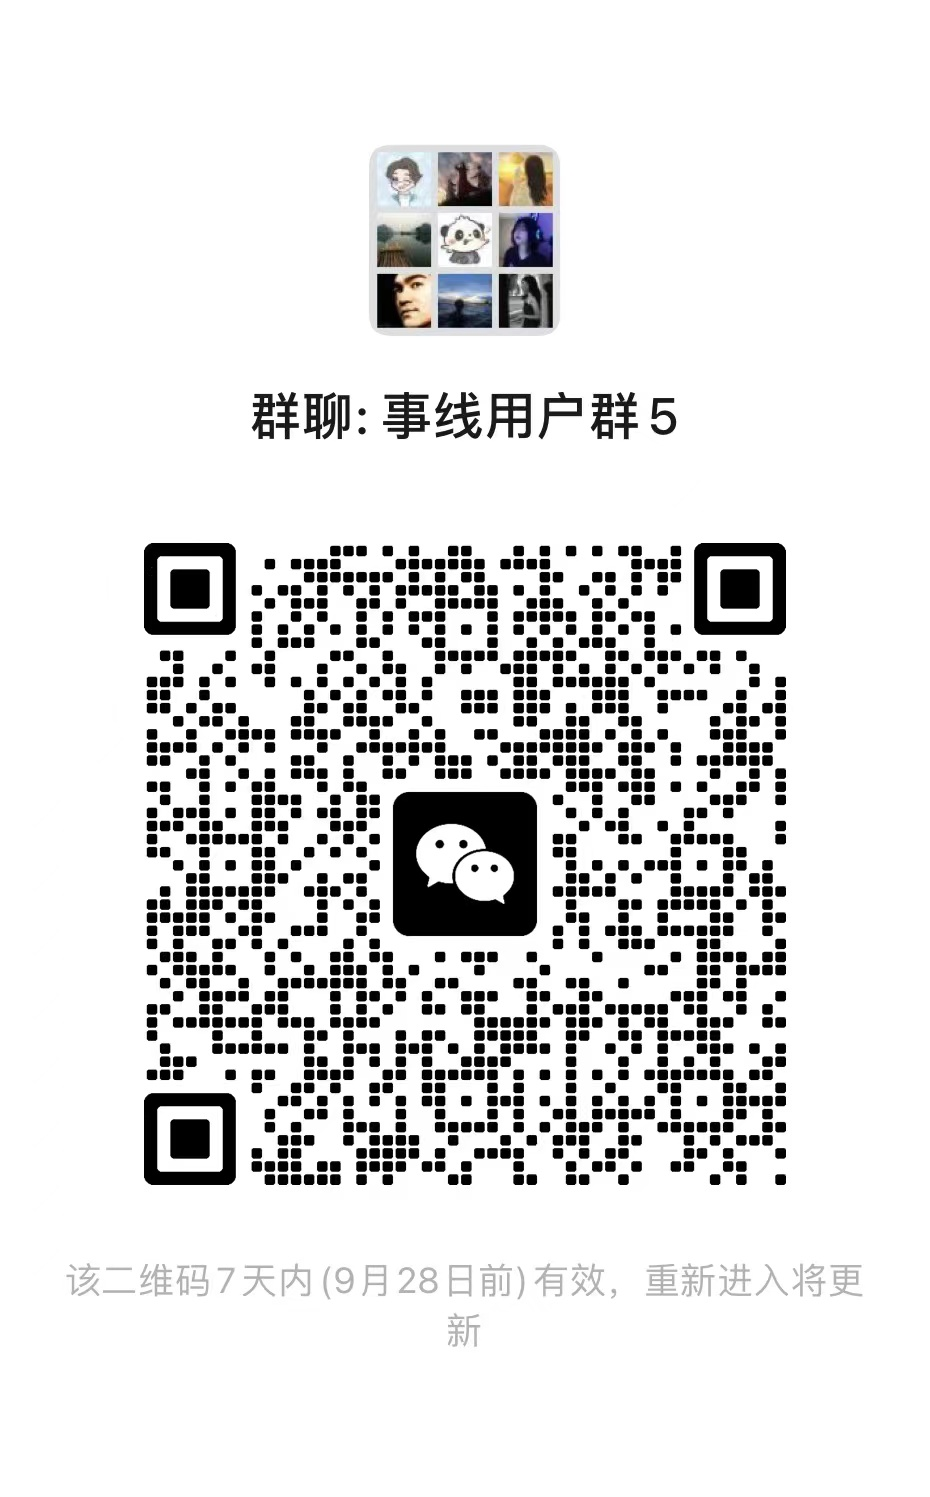
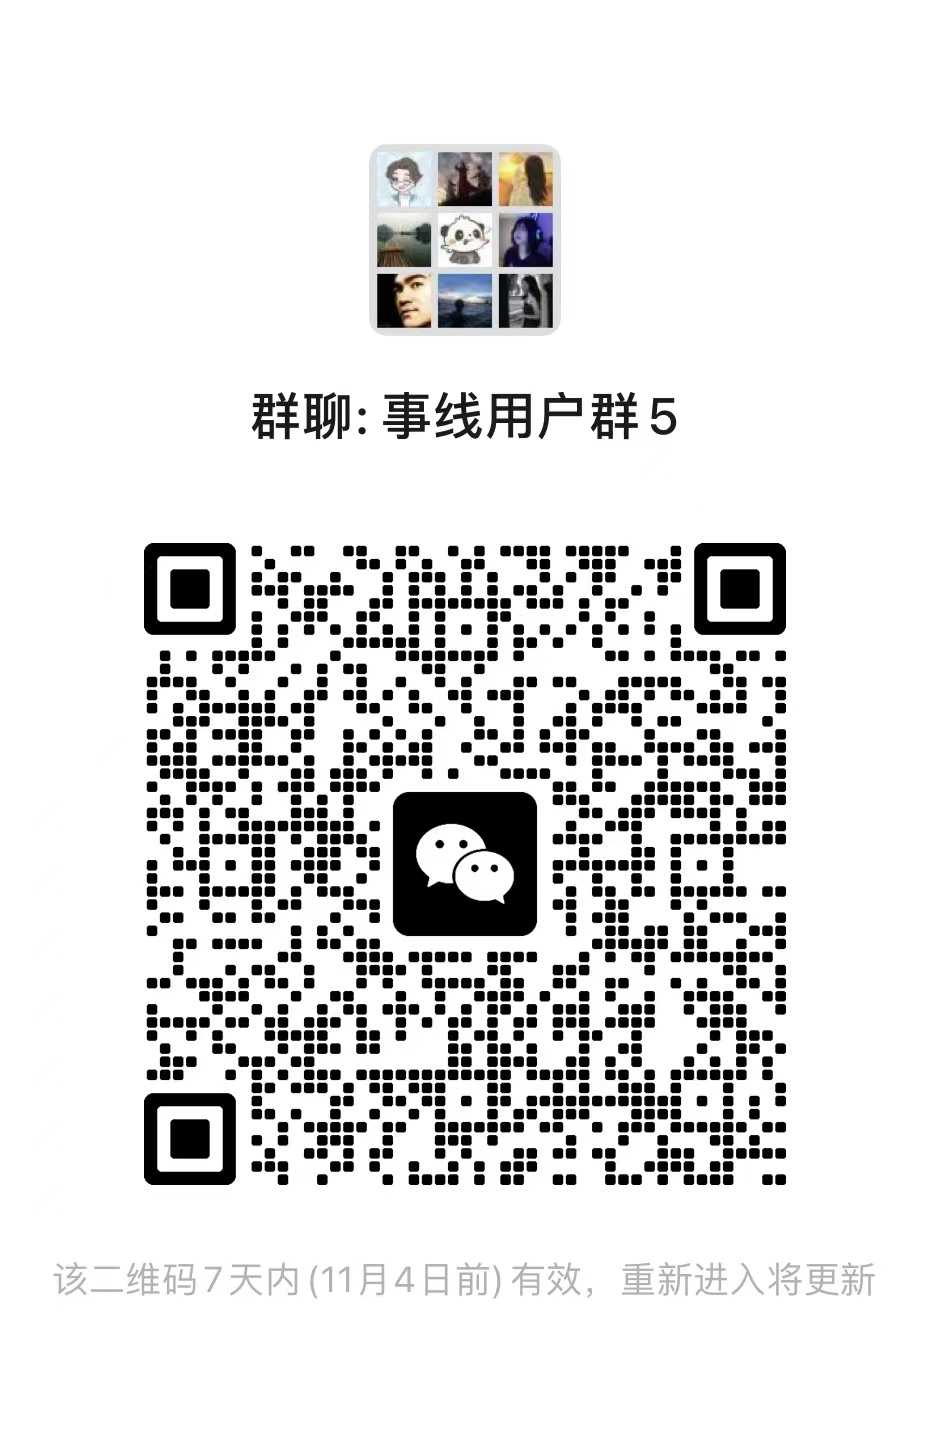
a

Changed region(s): [[0.0624, 0.3423, 0.9355, 0.9025], [0.2495, 0.0934, 0.7484, 0.3112]]

diff --git a/docs/01.pages/03.共建/002.用户群.md b/docs/01.pages/03.共建/002.用户群.md
@@ -9,7 +9,7 @@ permalink: /pages/16d8ae/
 
 <img src="/img/vx.jpg" class="no-zoom" style="width:15rem;margin: 10px;border-radius: 15px;margin: 2rem 0;box-shadow: 0 0px 20px rgb(0 0 0 / 20%);">
 
-#### （9月28日失效）
+#### （11月4日失效）
 
 
 :::
